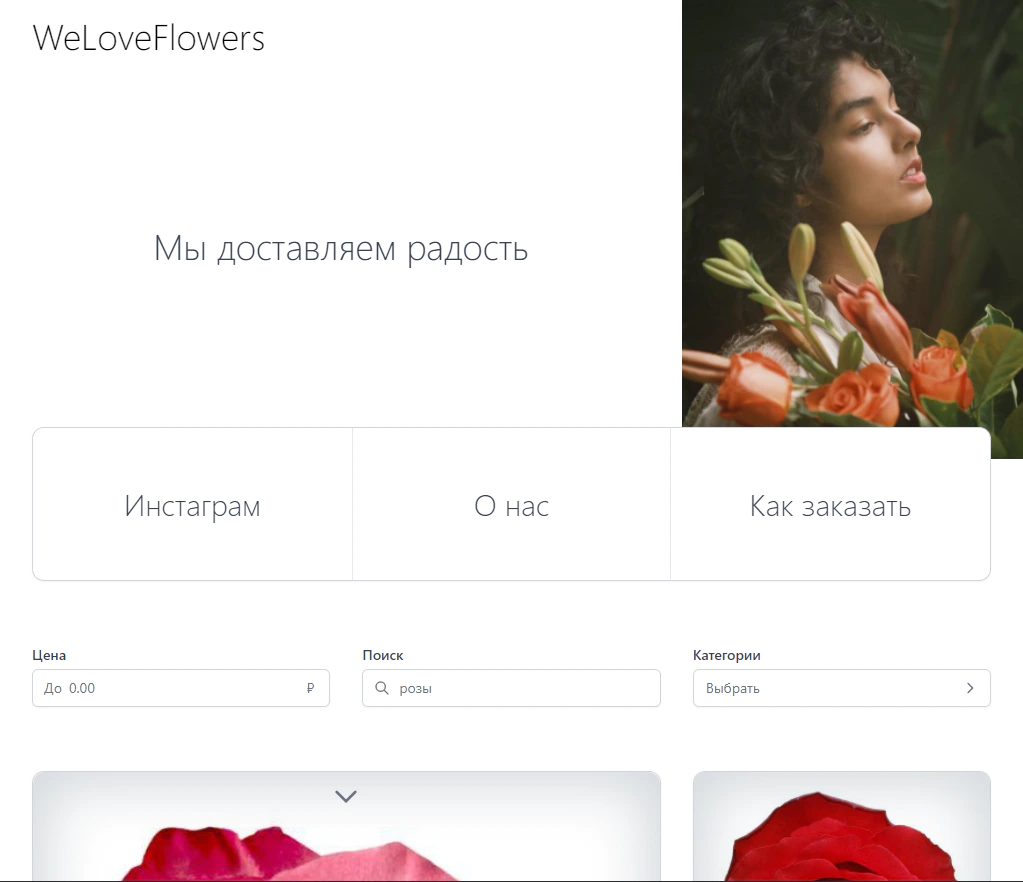
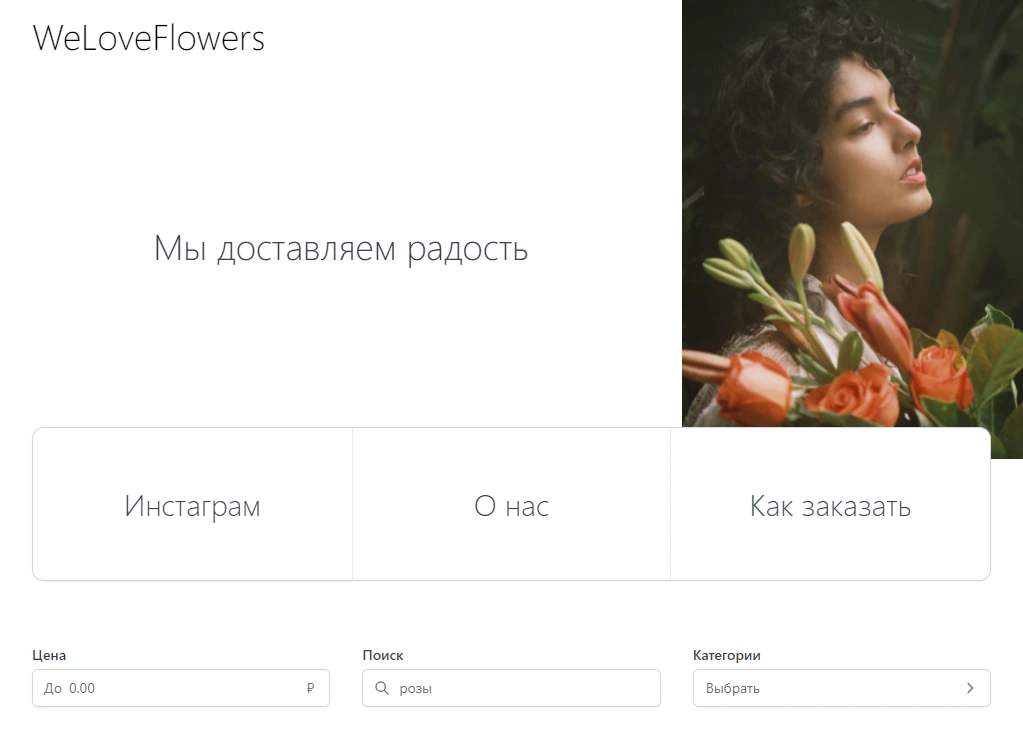
a

diff --git a/src/index.html b/src/index.html
@@ -98,7 +98,7 @@
       <section id="about">
         <!-- <p data-scroll data-scroll-speed="2">Сайт для магазина цветов WeLoveFlowers</p> -->
         <div class="wlf">
-          <a href="https://wlf-36.ru" target="_blank" rel="noopener"></a>
+          <a href="https://wlf-36.ru" target="_blank" rel="noopener">wlf-36.ru</a>
         </div>
         
       </section>

diff --git a/src/style/index.scss b/src/style/index.scss
@@ -72,6 +72,7 @@ form {
   a {
     width: 100%;
     height: 100%;
+    opacity: 0;
   }
 }
 
